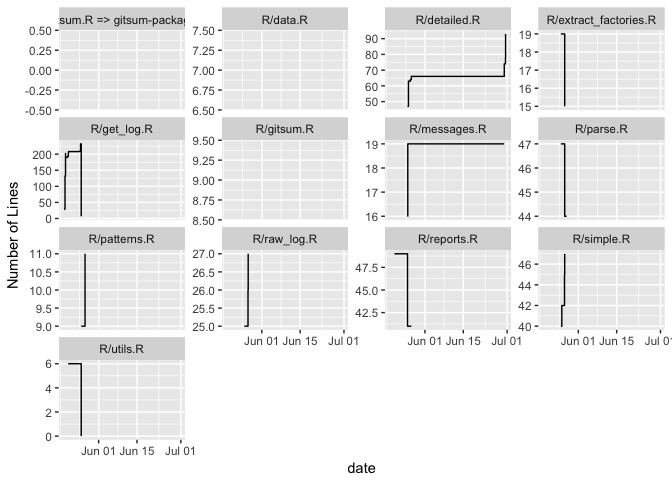
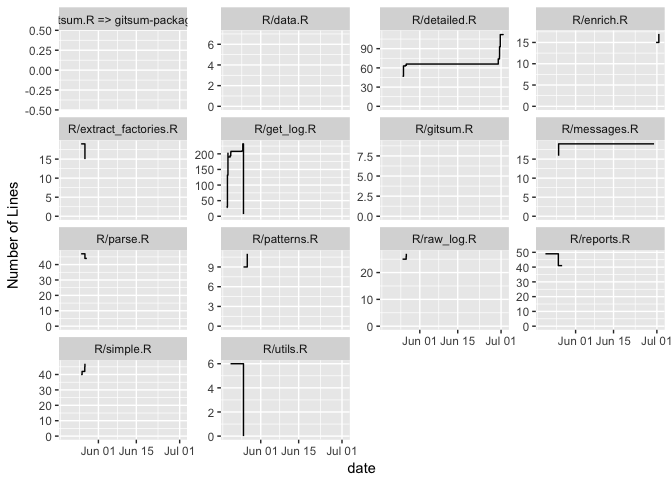
update README

diff --git a/README.md b/README.md
@@ -1,6 +1,6 @@
 
 <!-- README.md is generated from README.Rmd. Please edit that file -->
-*Package is work in progress!*
+*Package is work in progress! If you encounter errors / problems, please file an issue or make a PR.*
 
 [![Project Status: WIP ? Initial development is in progress, but there has not yet been a stable, usable release suitable for the public.](http://www.repostatus.org/badges/latest/wip.svg)](http://www.repostatus.org/#wip) [![Build Status](https://travis-ci.org/lorenzwalthert/gitsum.svg?branch=master)](https://travis-ci.org/lorenzwalthert/gitsum) [![codecov](https://codecov.io/gh/lorenzwalthert/gitsum/branch/master/graph/badge.svg)](https://codecov.io/gh/lorenzwalthert/gitsum) [![AppVeyor Build Status](https://ci.appveyor.com/api/projects/status/github/lorenzwalthert/gitsum?branch=master&svg=true)](https://ci.appveyor.com/project/lorenzwalthert/gitsum)
 
@@ -26,9 +26,9 @@ tbl <- git_log_detailed() %>%
   arrange(date) %>%
   select(short_hash, short_message, total_files_changed, nested)
 tbl 
-#> # A tibble: 52 x 4
+#> # A tibble: 57 x 4
 #>    short_hash        short_message total_files_changed            nested
-#>         <chr>                <chr>               <int>            <list>
+#>         <chr>                <chr>               <dbl>            <list>
 #>  1       243f       initial commit                   7  <tibble [7 x 5]>
 #>  2       f8ee add log example data                   1  <tibble [1 x 5]>
 #>  3       6328          add parents                   3  <tibble [3 x 5]>
@@ -39,14 +39,14 @@ tbl
 #>  8       943c        add helpfiles                  10 <tibble [10 x 5]>
 #>  9       917e update infrastructur                   3  <tibble [3 x 5]>
 #> 10       4fc0       remove garbage                   6  <tibble [6 x 5]>
-#> # ... with 42 more rows
+#> # ... with 47 more rows
 ```
 
 ``` r
 tbl$nested[[3]]
 #> # A tibble: 3 x 5
 #>   changed_file edits insertions deletions is_exact
-#>          <chr> <int>      <dbl>     <dbl>    <lgl>
+#>          <chr> <dbl>      <dbl>     <dbl>    <lgl>
 #> 1  DESCRIPTION     6          5         1     TRUE
 #> 2    NAMESPACE     3          2         1     TRUE
 #> 3  R/get_log.R    19         11         8     TRUE
@@ -70,20 +70,14 @@ group_by(author_name) %>%
 #>             <chr> <int>
 #> 1      Jon Calder     2
 #> 2      jonmcalder     6
-#> 3 Lorenz Walthert    44
+#> 3 Lorenz Walthert    49
 ```
 
 We can also investigate how the number of lines of each file in the R directory evolved.
 
 ``` r
 lines <- log %>%
-  unnest() %>%
-  mutate(insertions = if_else(is.na(insertions), 0, insertions), 
-         deletions = if_else(is.na(deletions), 0, deletions), 
-         lines_added = insertions - deletions) %>%
-  group_by(changed_file) %>%
-  arrange(date) %>%
-  mutate(current_lines = cumsum(lines_added))
+  add_line_history()
 
 r_files <- grep("^R/", lines$changed_file, value = TRUE)
 
@@ -91,7 +85,7 @@ to_plot <- lines %>%
   filter(changed_file %in% r_files)
 ggplot(to_plot, aes(x = date, y = current_lines)) + 
   geom_step() + 
-  scale_y_continuous(name = "Number of Lines") + 
+  scale_y_continuous(name = "Number of Lines", limits = c(0, NA)) + 
   facet_wrap(~changed_file, scales = "free_y")
 ```
 
@@ -121,7 +115,6 @@ commit.dat <- data.frame(
 ggplot(commit.dat, aes(x = commit, y = count, fill = edits)) + 
   geom_bar(stat = "identity", position = "identity") +  
   theme_minimal()
-#> Warning: Removed 19 rows containing missing values (geom_bar).
 ```
 
 ![](README-ggplot2-1.png)
